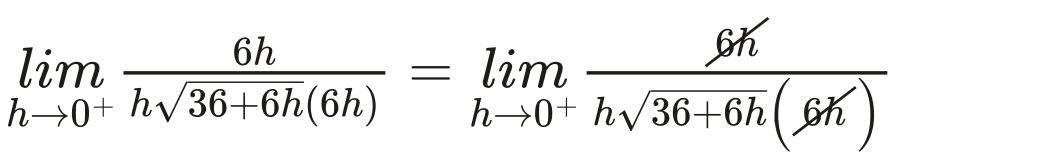
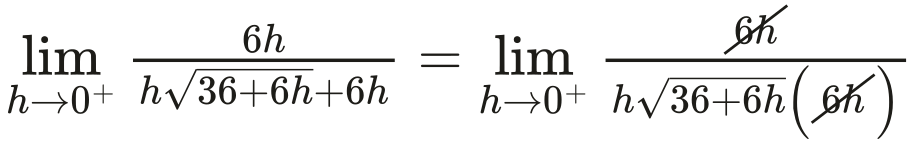
Add files via upload

Changed region(s): [[0.0, 0.1119, 1.0, 0.951], [0.7922, 0.0559, 0.8531, 0.3636], [0.8531, 0.028, 0.8836, 0.0559]]

diff --git a/eq/INDEX-disc31-sol.md b/eq/INDEX-disc31-sol.md
@@ -41,7 +41,7 @@
 | `disc31-sol-390.png` | inline | 1832x94 | `(wiris)` |
 | `disc31-sol-400.png` | inline | 724x82 | `(wiris)` |
 | `disc31-sol-410.png` | inline | 478x121 | `(wiris)` |
-| `disc31-sol-420.png` | inline | 1037x145 | `(wiris)` |
-| `disc31-sol-430.png` | inline | 1057x167 | `(wiris)` |
-| `disc31-sol-440.png` | inline | 1847x145 | `(wiris)` |
+| `disc31-sol-420.png` | inline | 902x124 | `\(\scriptsize \lim\limits_{h\to0^+}\frac{6h}{h\sqrt{36+6h}+6h}=\lim\limits_{h\to0^+}\frac{\cancel{6h}}{h\sqrt{36+6h}+\cancel{6h}}\)` |
+| `disc31-sol-430.png` | inline | 919x143 | `\(\scriptsize \lim\limits_{h\to0^+}\frac{6h}{h\sqrt{36+6h}+6h}=\lim\limits_{h\to0^+}\frac{\cancel{6h}}{h\sqrt{36+6h}\left(\cancel{6h}\right)}\)` |
+| `disc31-sol-440.png` | inline | 1601x124 | `\(\scriptsize \lim\limits_{h\to0^+}\frac{h\sqrt{36+6h}+6h}{6h}=\lim\limits_{h\to0^+}\left(\frac{h\sqrt{36+6h}}{6h}+\frac{\cancel{6h}}{\cancel{6h}}\right)=\lim\limits_{h\to0^+}\left(\frac{h\sqrt{36+6h}}{6h}+1\right)\)` |
 | `disc31-sol-450.png` | inline | 750x140 | `(wiris)` |

diff --git a/eq/INDEX-expl-deux.md b/eq/INDEX-expl-deux.md
@@ -8,7 +8,7 @@
 | `expl-deux-060.png` | inline | 194x66 | `\(\scriptsize (x+h)\)` |
 | `expl-deux-070.png` | inline | 45x34 | `\(\scriptsize x\)` |
 | `expl-deux-080.png` | inline | 918x71 | `\(\scriptsize f(x+h)=4(x+h)^2+8(x+h)+5\)` |
-| `expl-deux-090.png` | inline | 1077x71 | `\(\scriptsize f(x+x)=4x^2+8xh+4h^2+8x+8h+5\)` |
+| `expl-deux-090.png` | inline | 1077x71 | `\(\scriptsize f(x+h)=4x^2+8xh+4h^2+8x+8h+5\)` |
 | `expl-deux-100.png` | inline | 122x66 | `\(\scriptsize f(x)\)` |
 | `expl-deux-110.png` | inline | 406x66 | `\(\scriptsize f(x+h)-f(x)\)` |
 | `expl-deux-120.png` | inline | 1343x77 | `\(\scriptsize =\left(4x^2+8xh+4h^2+8x+8h+5\right)-\left(4x^2+8x+5\right)\)` |
